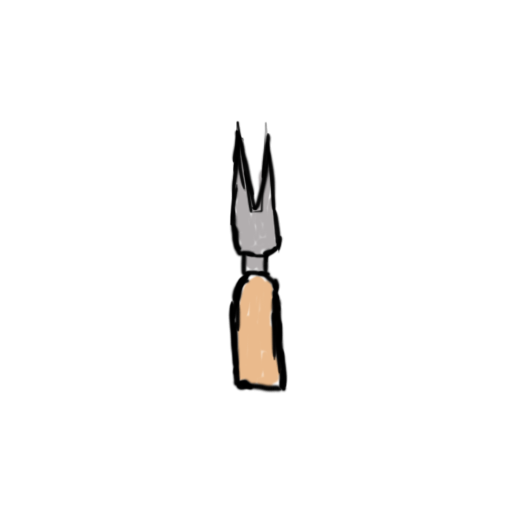
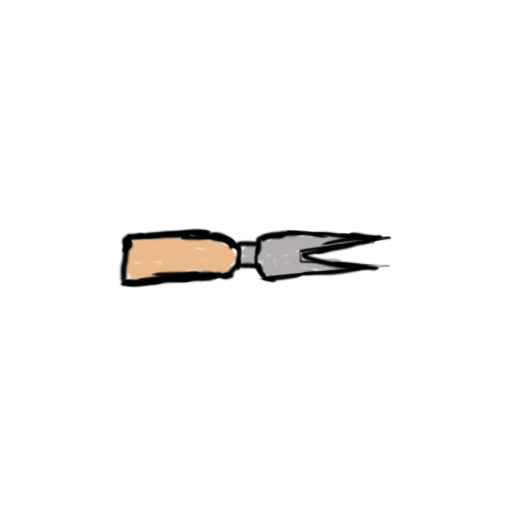
Added difficulty and more bullets

Changed region(s): [[0.2188, 0.2188, 0.7812, 0.7812]]

diff --git a/Assets/BulletPool.cs b/Assets/BulletPool.cs
@@ -4,11 +4,14 @@ using UnityEngine;
 
 public class BulletPool : MonoBehaviour
 {
-    public const int poolSize = 128;
+    public const int poolSize = 60;
     private GameObject defaultBulletHolder;
     private GameObject largeBulletHolder;
+    private GameObject greatBulletHolder;
+
 
     public Bullet defaultBullet;
+    public Bullet GreatBullet;
     public Bullet largeBullet;
 
     public Dictionary<int, Queue<Bullet>> bulletPoolDictionary;
@@ -19,16 +22,20 @@ public class BulletPool : MonoBehaviour
     {
         defaultBulletHolder = new GameObject("@DefaultBulletHolder");
         largeBulletHolder = new GameObject("@LargeBulletHolder");
+        greatBulletHolder = new GameObject("@greatBulletHolder");
 
 
         bulletPoolDictionary = new Dictionary<int, Queue<Bullet>>();
         bulletPoolDictionary.Add(1, new Queue<Bullet>());
         bulletPoolDictionary.Add(2, new Queue<Bullet>());
+        bulletPoolDictionary.Add(3, new Queue<Bullet>());
+
 
         for (int i = 0; i < poolSize; i++)
         {
             Bullet db = Instantiate(defaultBullet);
             Bullet lb = Instantiate(largeBullet);
+            Bullet gb = Instantiate(GreatBullet);
 
             db.Initialize();
             db.DeActivate();
@@ -36,18 +43,23 @@ public class BulletPool : MonoBehaviour
             lb.Initialize();
             lb.DeActivate();
 
+            gb.Initialize();
+            gb.DeActivate();
+
             bulletPoolDictionary[1].Enqueue(db);
             bulletPoolDictionary[2].Enqueue(lb);
+            bulletPoolDictionary[3].Enqueue(gb);
 
 
             db.transform.SetParent(defaultBulletHolder.transform);
             lb.transform.SetParent(largeBulletHolder.transform);
+            lb.transform.SetParent(greatBulletHolder.transform);
+
         }
     }
 
     public Bullet GetBullet(SpawnData.BulletTypes bulletType)
     {
-        Debug.Log((int)bulletType);
         return bulletPoolDictionary[(int)bulletType].ReQueue();
     }
 }

diff --git a/Assets/Scripts/Bullet.cs b/Assets/Scripts/Bullet.cs
@@ -1,6 +1,6 @@
 using UnityEngine;
 
-[RequireComponent(typeof(SpriteRenderer), typeof(Rigidbody2D), typeof(CircleCollider2D))]
+[RequireComponent(typeof(SpriteRenderer), typeof(Rigidbody2D), typeof(Collider2D))]
 public class Bullet : MonoBehaviour
 {
     public float speed;
@@ -13,13 +13,13 @@ public class Bullet : MonoBehaviour
 
     protected SpriteRenderer rend;
     protected Rigidbody2D body;
-	protected CircleCollider2D col;
+    protected Collider2D col;
 
-	public virtual void Initialize()
+    public virtual void Initialize()
     {
         rend = GetComponent<SpriteRenderer>();
         body = GetComponent<Rigidbody2D>();
-		col = GetComponent<CircleCollider2D>();
+        col = GetComponent<Collider2D>();
 
         HideMe();
     }
@@ -28,14 +28,15 @@ public class Bullet : MonoBehaviour
     {
         rend.color = Color.white;
         body.velocity = Vector2.zero;
-		col.isTrigger = true;
-	}
+        col.isTrigger = true;
+    }
 
     public virtual void Activate(Vector2 pos, Vector2 direction, float delay)
     {
         canDealDamage = true;
         this.transform.position = pos;
         this.direction = direction;
+
         Invoke("SetInMotion", delay);
     }
 
@@ -73,6 +74,8 @@ public class Bullet : MonoBehaviour
     public virtual void SetInMotion()
     {
         body.velocity = direction * speed;
+        float angle = Mathf.Atan2(direction.y, direction.x) * Mathf.Rad2Deg;
+        transform.rotation = Quaternion.AngleAxis(angle, Vector3.forward);
     }
 
     public virtual void OnTriggerEnter2D(Collider2D collision)

diff --git a/Assets/Scripts/LevelMaker.cs b/Assets/Scripts/LevelMaker.cs
@@ -12,6 +12,7 @@ public class LevelMaker : MonoBehaviour
     // Start is called before the first frame update
     void Start()
     {
+        levelNumber = 15;
         holder = new GameObject("@SpawnerHolder");
         spawners = new Queue<BulletSpawner>();
         for (int i = 0; i < 128; i++)
@@ -21,6 +22,16 @@ public class LevelMaker : MonoBehaviour
             spawner.pool = FindObjectOfType<BulletPool>();
             spawner.transform.SetParent(holder.transform);
         }
+        StartCoroutine("SpawnLevels");
+    }
+
+    public IEnumerator SpawnLevels()
+    {
+        do
+        {
+            SpawnLevel();
+            yield return new WaitForSecondsRealtime(4.675f);
+        } while (true);
     }
 
     public void SpawnLevel()
@@ -35,6 +46,8 @@ public class LevelMaker : MonoBehaviour
             spawner.inUse = true;
             spawner.SpawnAngled();
         }
+
+
     }
 
     // Update is called once per frame

diff --git a/Assets/Scripts/BulletSpawner.cs b/Assets/Scripts/BulletSpawner.cs
@@ -30,6 +30,7 @@ public class BulletSpawner : MonoBehaviour
             angle = angle + (UnityEngine.Random.insideUnitCircle.normalized * 0.4f);
             angle = angle.normalized;
 
+           
             b.Activate(this.transform.position, angle, data.delay);
         }
 

diff --git a/Assets/Scripts/SpawnData.cs b/Assets/Scripts/SpawnData.cs
@@ -7,6 +7,6 @@ public class SpawnData : ScriptableObject
 {
     public int amount;
     public float delay;
-    public enum BulletTypes { Default = 1, Large = 2 };
+    public enum BulletTypes { Default = 1, Large = 2, Great = 3 };
     public BulletTypes type;
 }
